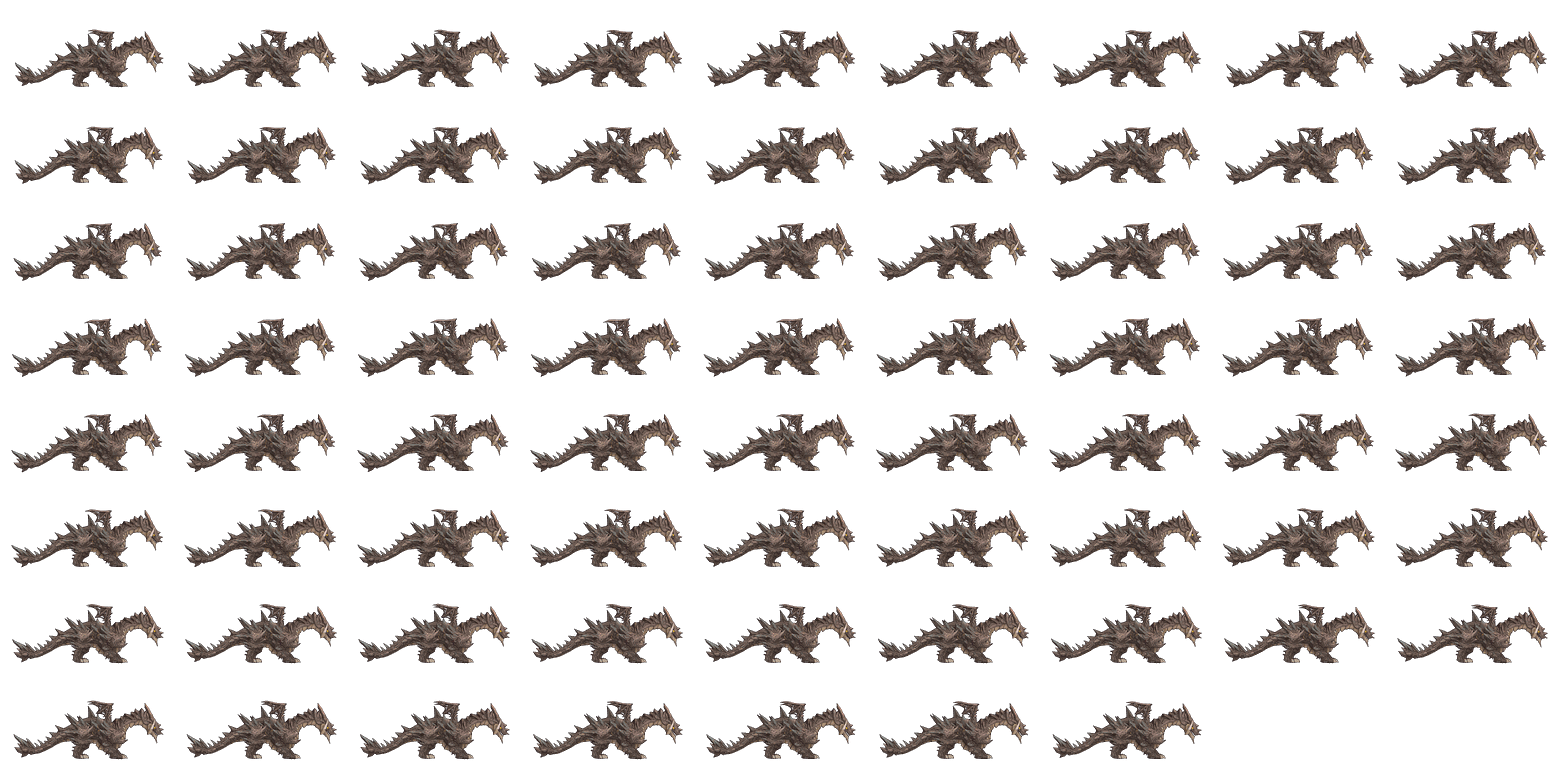
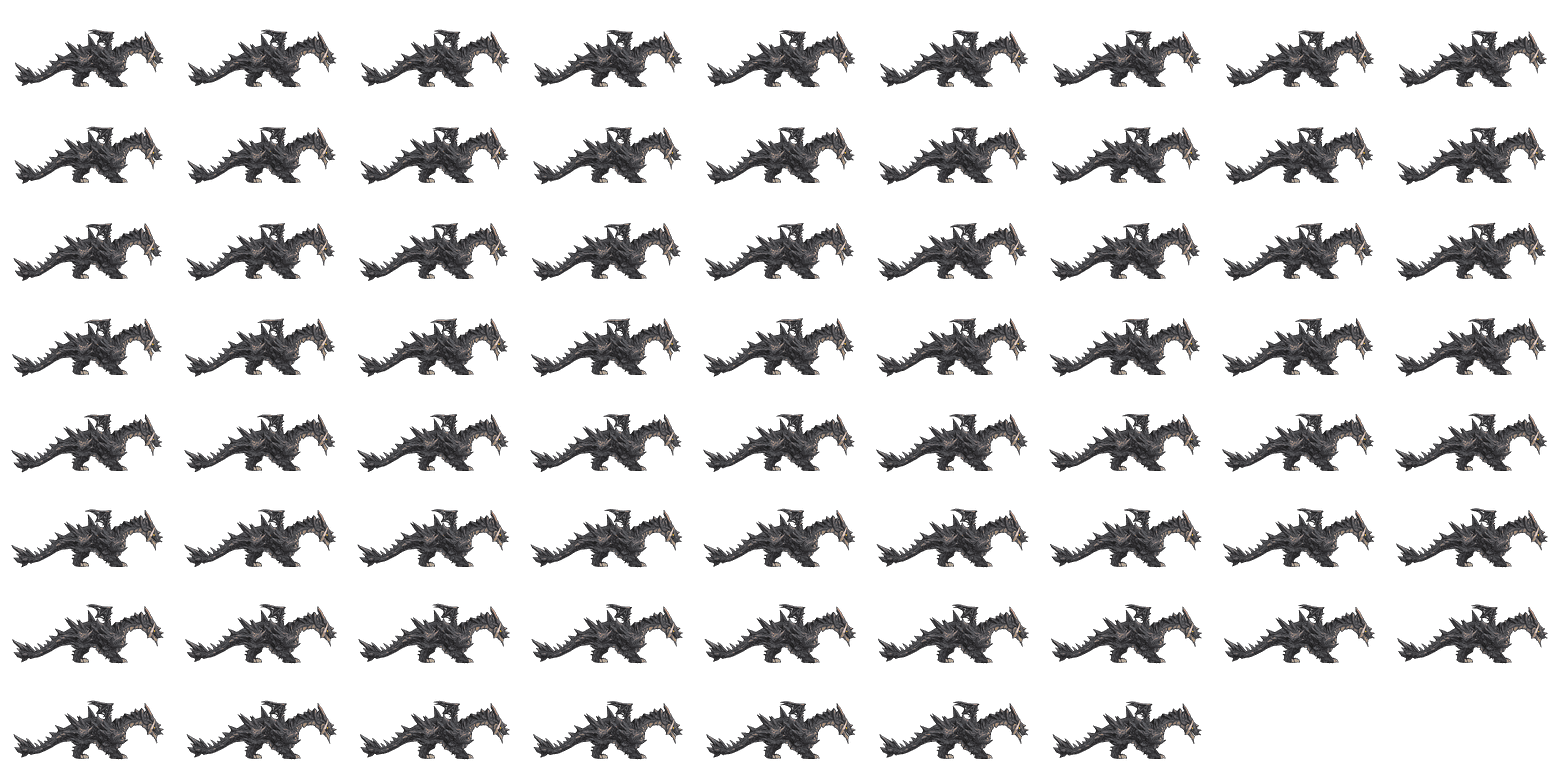
feat: black dragon that breathes fire when a session is done, and rears up now and then while idle

diff --git a/Sources/Wyrmwatch/Views/DragonSpriteView.swift b/Sources/Wyrmwatch/Views/DragonSpriteView.swift
@@ -2,8 +2,9 @@ import AppKit
 import QuartzCore
 import SwiftUI
 
-/// The mascot's sprite sheets: "Dragon - Fully Animated" by Cethiel (CC0, opengameart.org), packed by
-/// scripts/make-dragon-atlas.py into one grid of frames per animation (Resources/Dragon + dragon.json).
+/// The mascot's sprite sheets: "Dragon - Fully Animated" by Cethiel (CC0, opengameart.org) with the flame of
+/// "Lots of game effects" (CC0), recoloured and packed by scripts/make-dragon-atlas.py into one grid of frames
+/// per animation (Resources/Dragon + dragon.json).
 final class DragonAtlas {
     struct Animation: Decodable {
         let file: String
@@ -12,6 +13,8 @@ final class DragonAtlas {
         let frames: Int
         let fps: Double
         let loop: Bool
+        /// Only for a sheet wider than the rest ("done": the flame runs past the dragon's box on the right).
+        let frameWidth: CGFloat?
     }
 
     private struct Manifest: Decodable {
@@ -25,6 +28,7 @@ final class DragonAtlas {
 
     /// Width over height of one frame.
     let aspect: CGFloat
+    private let frameWidth: CGFloat
     let animations: [String: Animation]
     private let folder: URL
     private var images: [String: CGImage] = [:]
@@ -35,6 +39,7 @@ final class DragonAtlas {
               let manifest = try? JSONDecoder().decode(Manifest.self, from: data), manifest.frameHeight > 0 else { return nil }
         self.folder = folder
         aspect = manifest.frameWidth / manifest.frameHeight
+        frameWidth = manifest.frameWidth
         animations = manifest.animations
     }
 
@@ -46,6 +51,12 @@ final class DragonAtlas {
               let image = CGImageSourceCreateImageAtIndex(source, 0, nil) else { return nil }
         images[name] = image
         return image
+    }
+
+    /// How much wider than the dragon's box the frames of a sheet are (1 for all but "done").
+    func widening(_ name: String?) -> CGFloat {
+        guard let name, let width = animations[name]?.frameWidth, frameWidth > 0 else { return 1 }
+        return width / frameWidth
     }
 
     /// Where each frame sits in its sheet, in unit coordinates. Frames run left to right, top row first; a layer's
@@ -81,6 +92,11 @@ final class DragonSpriteHost: NSView {
     /// The sheet on the layer.
     private var sheet: String?
     private var next: DispatchWorkItem?
+    /// The dragon's box in this view: as large as fits, standing on the bottom edge.
+    private var box = CGSize.zero
+    /// Watching, it rears up and strikes now and then. Not during the self-test, which looks at what is playing.
+    static var flourishes = !CommandLine.arguments.contains("--selftest")
+    private static let flourishEvery: ClosedRange<TimeInterval> = 30...60
     /// The sheets face right; mirrored for a dragon that stands on the right and looks in.
     var facingLeft = false {
         didSet { if facingLeft != oldValue { sprite.transform = CATransform3DMakeScale(facingLeft ? -1 : 1, 1, 1) } }
@@ -100,9 +116,10 @@ final class DragonSpriteHost: NSView {
         wantsLayer = true
         layer?.masksToBounds = false
         // Nothing here animates by itself: frames and the crossfade are added explicitly.
-        sprite.actions = ["contents": NSNull(), "contentsRect": NSNull(), "bounds": NSNull(), "position": NSNull(), "transform": NSNull()]
+        sprite.actions = ["contents": NSNull(), "contentsRect": NSNull(), "bounds": NSNull(), "position": NSNull(),
+                          "anchorPoint": NSNull(), "transform": NSNull()]
         sprite.contentsGravity = .resize
-        sprite.anchorPoint = CGPoint(x: 0.5, y: 0) // breathes from the ground up
+        sprite.anchorPoint = CGPoint(x: 0.5, y: 0)
         layer?.addSublayer(sprite)
     }
 
@@ -111,12 +128,27 @@ final class DragonSpriteHost: NSView {
     override func layout() {
         super.layout()
         guard let atlas else { return }
-        // As large as fits, centred, standing on the bottom edge.
-        let size = bounds.width / max(bounds.height, 1) > atlas.aspect
+        box = bounds.width / max(bounds.height, 1) > atlas.aspect
             ? CGSize(width: bounds.height * atlas.aspect, height: bounds.height)
             : CGSize(width: bounds.width, height: bounds.width / atlas.aspect)
-        sprite.bounds = CGRect(origin: .zero, size: size)
-        sprite.position = CGPoint(x: bounds.midX, y: bounds.midY - size.height / 2)
+        place()
+    }
+
+    /// Sizes the layer for the sheet on it. A wider sheet grows past the view on the side the dragon faces (the
+    /// anchor stays in the middle of the dragon's box, so turning it round still works).
+    private func place() {
+        let widening = atlas?.widening(sheet) ?? 1
+        sprite.anchorPoint = CGPoint(x: 0.5 / widening, y: 0) // breathes from the ground up
+        sprite.bounds = CGRect(x: 0, y: 0, width: box.width * widening, height: box.height)
+        sprite.position = CGPoint(x: bounds.midX, y: bounds.midY - box.height / 2)
+    }
+
+    /// For the self-test: the flourish, now.
+    func flourishForTesting() { flourish() }
+
+    private func flourish() {
+        guard shown?.state == .peek, shown?.running == true, sheet == "idle" else { return }
+        play("flourish") { [weak self] in self?.play("idle") }
     }
 
     func update(state: WyrmState, running: Bool) {
@@ -138,7 +170,7 @@ final class DragonSpriteHost: NSView {
             // Lie down (straight to the last frame when it was already lying there), then breathe.
             if wasAsleep || before == nil { hold(.sleep); breathe() } else { play("sleep") { [weak self] in self?.breathe() } }
         case .done:
-            // Once, then back to watching.
+            // Draws back and breathes fire once, then back to watching.
             play("done") { [weak self] in self?.play("idle") }
         default:
             let name = Self.loop(for: state)
@@ -169,10 +201,16 @@ final class DragonSpriteHost: NSView {
         frames.speed = speed
         frames.repeatCount = animation.loop ? .infinity : 1
         sprite.add(frames, forKey: Self.frames)
-        guard !animation.loop, let then else { return }
-        let work = DispatchWorkItem(block: then)
+        var after = frames.duration / Double(speed)
+        var work = then.map { DispatchWorkItem(block: $0) }
+        if name == "idle", Self.flourishes, shown?.state == .peek {
+            after = .random(in: Self.flourishEvery)
+            work = DispatchWorkItem { [weak self] in self?.flourish() }
+        }
+        guard let work, name == "idle" || !animation.loop else { return }
+        next?.cancel()
         next = work
-        DispatchQueue.main.asyncAfter(deadline: .now() + frames.duration / Double(speed), execute: work)
+        DispatchQueue.main.asyncAfter(deadline: .now() + after, execute: work)
     }
 
     /// One still frame of a state, with nothing moving.
@@ -185,8 +223,8 @@ final class DragonSpriteHost: NSView {
         }
         guard let atlas, let animation = atlas.animations[name], let image = atlas.image(name) else { return }
         let rects = atlas.rects(animation)
-        // Asleep: lying down (the last frame). Done: reared up (a third of the way in). Otherwise the first frame.
-        let index = state == .sleep ? rects.count - 1 : state == .done ? rects.count / 3 : 0
+        // Asleep: lying down (the last frame). Done: breathing fire (half-way in). Otherwise the first frame.
+        let index = state == .sleep ? rects.count - 1 : state == .done ? rects.count / 2 : 0
         sprite.removeAllAnimations()
         show(image, name, rect: rects[index], fade: false)
     }
@@ -202,6 +240,7 @@ final class DragonSpriteHost: NSView {
         sprite.contents = image
         sprite.contentsRect = rect
         sheet = name
+        place()
     }
 
     /// Asleep: a slow rise and fall.

diff --git a/Sources/Wyrmwatch/App/SelfTest.swift b/Sources/Wyrmwatch/App/SelfTest.swift
@@ -686,7 +686,7 @@ enum SelfTest {
         log("— Dragon")
         check(DragonAtlas.shared != nil, "the dragon's sprite sheets are in the app")
         if let atlas = DragonAtlas.shared {
-            for name in ["idle", "working", "alert", "done", "sleep"] {
+            for name in ["idle", "working", "alert", "done", "flourish", "sleep"] {
                 check(atlas.image(name) != nil && (atlas.animations[name]?.fps ?? 99) <= 30, "sheet \(name) loads, at most 30 fps")
             }
         }
@@ -708,7 +708,7 @@ enum SelfTest {
         await show(.done)
         check(host()?.sheetForTesting == "done", "done plays its sheet")
         if let w = notch.window { snapshot(w, "dragon-done") }
-        // 3.4 s of animation; allow for a restart (the header being rebuilt mid-way) rather than a fixed wait.
+        // 2.7 s of animation; allow for a restart (the header being rebuilt mid-way) rather than a fixed wait.
         var waited = 0.0
         while waited < 9, host()?.sheetForTesting != "idle" {
             await wait(0.3)
@@ -716,6 +716,15 @@ enum SelfTest {
         }
         check(host()?.sheetForTesting == "idle" && host()?.isAnimatingForTesting == true,
               "done plays once, then back to idle (after \(String(format: "%.1f", waited + 0.5)) s)")
+        await show(.peek)
+        host()?.flourishForTesting()
+        check(host()?.sheetForTesting == "flourish", "watching, it can rear up")
+        waited = 0
+        while waited < 9, host()?.sheetForTesting != "idle" {
+            await wait(0.3)
+            waited += 0.3
+        }
+        check(host()?.sheetForTesting == "idle", "and goes back to watching")
         await show(.sleep)
         check(host()?.sheetForTesting == "sleep", "sleep lies down")
         await wait(3.2)

diff --git a/Sources/Wyrmwatch/Modules/Claude/ClaudeModule.swift b/Sources/Wyrmwatch/Modules/Claude/ClaudeModule.swift
@@ -123,10 +123,10 @@ private struct ClaudeFinishedPop: View {
 
     var body: some View {
         HStack(spacing: 4) {
-            // The dragon itself says it: it rears up and strikes once.
+            // The dragon itself says it: it breathes fire once. The flame needs the room to its right.
             WyrmSlot(state: .done, size: 28)
                 .frame(height: 40)
-                .padding(.trailing, 8)
+                .padding(.trailing, 24)
                 .opacity(checked ? 1 : 0)
 
             VStack(alignment: .leading, spacing: 2) {

diff --git a/scripts/make-dragon-atlas.py b/scripts/make-dragon-atlas.py
@@ -1,20 +1,22 @@
 #!/usr/bin/env python3
-"""Builds the mascot's sprite atlases (Resources/Dragon) from "Dragon - Fully Animated" by Cethiel (CC0).
+"""Builds the mascot's sprite atlases (Resources/Dragon) from "Dragon - Fully Animated" by Cethiel (CC0), with
+the flame of "Lots of game effects" (Fire01.png, CC0) for its breath.
 
-The original frames (137 MB, 60 fps, 725 x 445) are not in the repo. Download and unzip
-https://opengameart.org/content/dragon-fully-animated, then:
+The originals are not in the repo. Download and unzip https://opengameart.org/content/dragon-fully-animated
+(137 MB, 60 fps, 725 x 445) and get Fire01.png from https://opengameart.org/node/52692, then:
 
-    python3 scripts/make-dragon-atlas.py "<folder>/Dragon - Fully Animated"
+    python3 scripts/make-dragon-atlas.py "<folder>/Dragon - Fully Animated" "<folder>/Fire01.png"
 
 Needs Pillow. Every animation is cut to the same box (so the dragon stands on the same spot in all of them),
-halved to 30 fps, scaled to 2x the largest size it is shown at, lifted a little (the render is very dark for a
-black notch), turned to face right, and packed into one grid per animation. dragon.json describes the grids.
+halved to 30 fps, scaled to 2x the largest size it is shown at, recoloured (black scales; the belly, horns,
+claws and eyes keep their colour), turned to face right, and packed into one grid per animation. "done" is wider
+than the rest: the flame leaves the frame on the right. dragon.json describes the grids.
 """
 import json
 import os
 import sys
 
-from PIL import Image
+from PIL import Image, ImageChops
 
 OUT = os.path.join(os.path.dirname(os.path.abspath(__file__)), "..", "Resources", "Dragon")
 # One box around the dragon in every frame that is used (measured over all of them).
@@ -26,22 +28,75 @@ ANIMATIONS = {
     "idle": ("Idle", 1, 160, True),            # 161 is the first frame again
     "working": ("Walking", 1, 161, True),
     "alert": ("Idle Battle", 1, 139, True),    # 140 is the first frame again
-    "done": ("Attack 2", 1, 202, False),       # rears up and strikes, once
+    "done": ("Attack 1", 1, 161, False),       # draws back, then breathes fire, once
+    "flourish": ("Attack 2", 1, 202, False),   # rears up and strikes: now and then while idle
     "sleep": ("Death", 127, 301, False),       # lies down and settles; played backwards to wake
 }
 GAMMA, GAIN = 0.75, 1.15
+# The body: this much of its colour removed, then darkened (gamma) and tinted a little cold.
+DESATURATE, BODY_GAMMA, BODY_TINT = 0.85, 1.15, (0.92, 0.94, 1.0)
+# The flame: on between these source frames of "done", fading in and out over RAMP frames; it runs EXTRA pixels
+# past the dragon's box.
+FIRE_ON, FIRE_OFF, RAMP, EXTRA, FLAME = 58, 104, 8, 80, 96
+
+
+def lut(f):
+    return [max(0, min(255, int(f(i / 255) * 255))) for i in range(256)]
+
+
+def smooth(lo, hi):
+    def f(v):
+        x = max(0.0, min(1.0, (v * 255 - lo) / (hi - lo)))
+        return x * x * (3 - 2 * x)
+    return lut(f)
 
 
 def tone(image):
-    lut = [min(255, int(255 * ((i / 255) ** GAMMA) * GAIN)) for i in range(256)]
-    r, g, b, a = image.split()
-    return Image.merge("RGBA", (r.point(lut), g.point(lut), b.point(lut), a))
+    """Lifts the render (it is very dark), then turns the scales black. Light parts (belly, horns, claws) and the
+    eyes keep their colour."""
+    table = lut(lambda v: (v ** GAMMA) * GAIN)
+    r, g, b, alpha = image.split()
+    rgb = Image.merge("RGB", (r.point(table), g.point(table), b.point(table)))
+    grey = rgb.convert("L")
+    body = Image.blend(rgb, Image.merge("RGB", (grey, grey, grey)), DESATURATE)
+    body = Image.merge("RGB", tuple(c.point(lut(lambda v, k=k: (v ** BODY_GAMMA) * k)) for c, k in zip(body.split(), BODY_TINT)))
+    _, s, v = rgb.convert("HSV").split()
+    eye = ImageChops.multiply(s.point(smooth(150, 200)), v.point(smooth(120, 170)))
+    out = Image.composite(rgb, body, ImageChops.lighter(v.point(smooth(120, 185)), eye)).convert("RGBA")
+    out.putalpha(alpha)
+    return out
 
 
-def main(source):
+def flames(path):
+    """The 32 frames of the flame, lying on their side: base on the left, tongue to the right."""
+    sheet = Image.open(path).convert("RGBA")
+    cells = [sheet.crop((c * 128, r * 256, c * 128 + 128, r * 256 + 256)) for r in range(4) for c in range(8)]
+    box = [128, 256, 0, 0]
+    for cell in cells:
+        l, t, r, b = cell.getbbox()
+        box = [min(box[0], l), min(box[1], t), max(box[2], r), max(box[3], b)]
+    return [cell.crop(tuple(box)).rotate(-90, expand=True) for cell in cells]
+
+
+def breathe(frame, flame, strength):
+    """The frame, EXTRA wider, with the flame at the snout (the dragon's right-most point)."""
+    canvas = Image.new("RGBA", (frame.width + EXTRA, frame.height), (0, 0, 0, 0))
+    canvas.alpha_composite(frame, (0, 0))
+    if strength <= 0:
+        return canvas
+    right = frame.getbbox()[2]
+    tip = frame.crop((right - 4, 0, right, frame.height)).getbbox()
+    length = max(1, round(FLAME * strength))
+    flame = flame.resize((length, max(1, round(flame.height * length / flame.width))), Image.LANCZOS)
+    canvas.alpha_composite(flame, (right - 5, max(0, (tip[1] + tip[3]) // 2 - flame.height // 2)))
+    return canvas
+
+
+def main(source, fire):
     os.makedirs(OUT, exist_ok=True)
     width = round((BOX[2] - BOX[0]) * HEIGHT / (BOX[3] - BOX[1]))
     manifest = {"frameWidth": width, "frameHeight": HEIGHT, "scale": 2, "animations": {}}
+    flame = flames(fire)
     for name, (folder, first, last, loop) in ANIMATIONS.items():
         numbers = list(range(first, last + 1, 2))
         if not loop and numbers[-1] != last:
@@ -50,20 +105,26 @@ def main(source):
         for number in numbers:
             image = Image.open(os.path.join(source, folder, f"{number:03d}.png")).convert("RGBA").crop(BOX)
             image = tone(image.resize((width, HEIGHT), Image.LANCZOS)).transpose(Image.FLIP_LEFT_RIGHT)
+            if name == "done":
+                strength = min(1.0, (number - FIRE_ON) / RAMP, (FIRE_OFF - number) / RAMP)
+                image = breathe(image, flame[len(frames) % len(flame)], strength)
             frames.append(image)
+        cell = frames[0].width
         columns = 1
         while columns * columns < len(frames):
             columns += 1
         rows = (len(frames) + columns - 1) // columns
-        atlas = Image.new("RGBA", (columns * width, rows * HEIGHT), (0, 0, 0, 0))
+        atlas = Image.new("RGBA", (columns * cell, rows * HEIGHT), (0, 0, 0, 0))
         for index, frame in enumerate(frames):
-            atlas.paste(frame, ((index % columns) * width, (index // columns) * HEIGHT))
-        # 256 colours with alpha: the dragon is a handful of browns, and this cuts the files to about a third.
+            atlas.paste(frame, ((index % columns) * cell, (index // columns) * HEIGHT))
+        # 256 colours with alpha: the dragon is a handful of greys and bone, and this cuts the files to about a third.
         atlas = atlas.quantize(colors=256, method=Image.FASTOCTREE, dither=Image.NONE)
         file = f"{name}.png"
         atlas.save(os.path.join(OUT, file), optimize=True)
         manifest["animations"][name] = {"file": file, "columns": columns, "rows": rows, "frames": len(frames),
                                         "fps": FPS, "loop": loop}
+        if cell != width:
+            manifest["animations"][name]["frameWidth"] = cell
         print(name, len(frames), "frames", f"{columns}x{rows}", os.path.getsize(os.path.join(OUT, file)) // 1024, "KB")
     with open(os.path.join(OUT, "dragon.json"), "w") as out:
         json.dump(manifest, out, indent=2)
@@ -71,6 +132,6 @@ def main(source):
 
 
 if __name__ == "__main__":
-    if len(sys.argv) != 2:
+    if len(sys.argv) != 3:
         sys.exit(__doc__)
-    main(sys.argv[1])
+    main(sys.argv[1], sys.argv[2])
